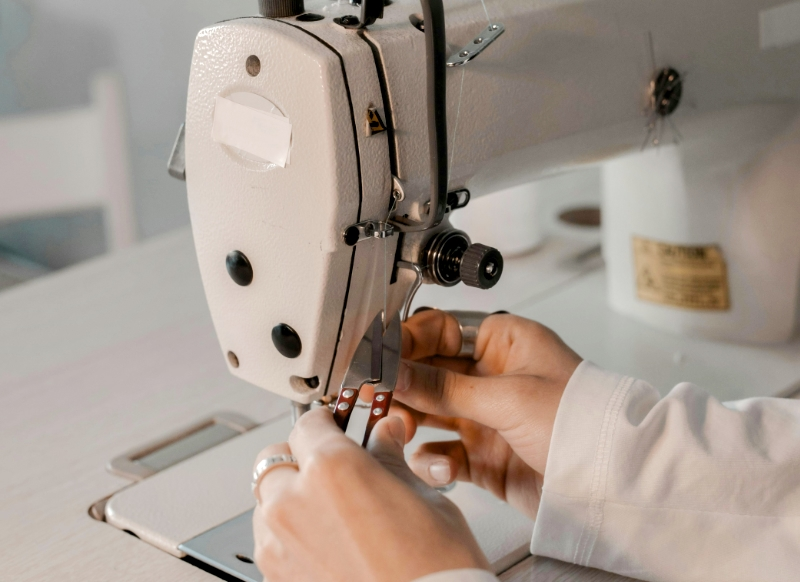
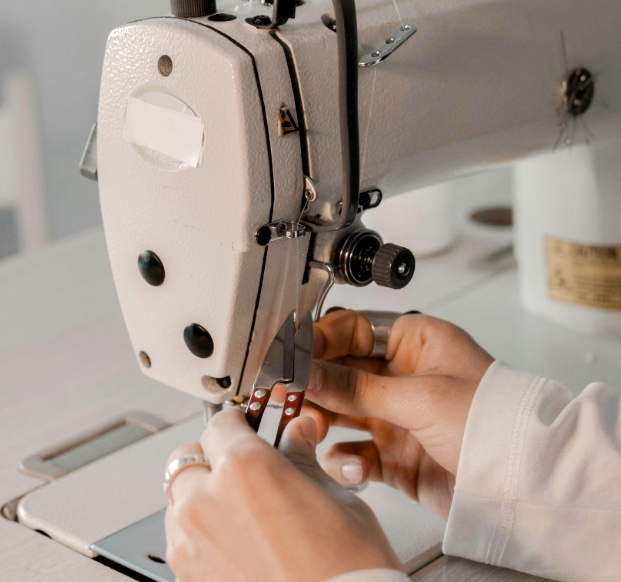
Update responsividade

diff --git a/style.css b/style.css
@@ -206,11 +206,23 @@ figure{
   border-bottom-left-radius: 5rem;
 }
 .img-col-2n-1 {
+  position: relative;
   width: 100%;
-  height: 50vh;
-  overflow: hidden;
+  min-height: 350px;
   border: 1px #ccc solid;
+  overflow: hidden;
 }
+
+.img-plus {
+  position: absolute;
+    top: 50%;
+    left: 50%;
+    transform: translate(-50%, -50%);
+    max-width: 100%;
+    height: auto;
+  
+}
+
 .logo-shopee{
   width: 180px;
 }
@@ -370,12 +382,23 @@ button:hover{
     column-count: 2;
   }
   
+  .img-plus {
+  position: absolute;
+    top: 50%;
+    left: 50%;
+    transform: translate(-50%, -50%);
+    max-width: 120%;
+    height: auto;
+  
+}
+  
   .cards .card{
     break-inside: avoid;
   }
   
 }
 @media (max-width: 740px){
+  
   
   .cards{
     display: block;
@@ -489,3 +512,5 @@ button:hover{
 .img-cover {
   width: 100%;
 }
+
+

diff --git a/index.html b/index.html
@@ -54,7 +54,7 @@
         <div class="container">
           <div class="col col-2">
             <figure class="img-col-2n-1">
-              <img src="medias/foto6.jpg" class="img-responsive" alt="">
+              <img src="medias/foto6.jpg" class="img-responsive img-plus" alt="">
             </figure>
           </div>
           <div class="col col-2">
@@ -77,7 +77,7 @@
 
           <div class="col col-2">
             <figure class="img-col-2n-1">
-              <img src="medias/foto2.jpg" class="img-responsive" alt="">
+              <img src="medias/foto2.jpg" class="img-responsive img-plus" alt="">
             </figure>
           </div>
         </div>
